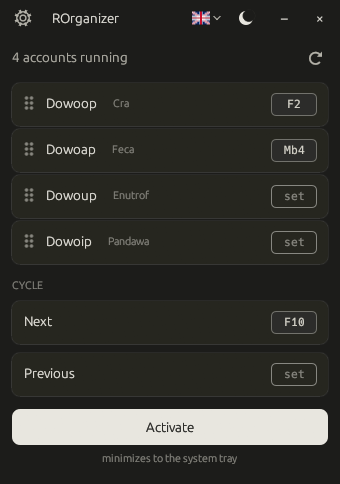
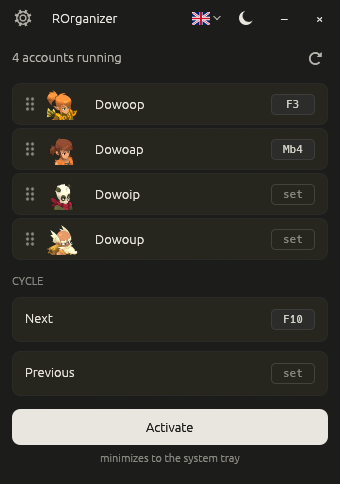
Phase 17 — icônes de classe + bump 1.1.0
- 19 visages Dofus embedded comme PNG (resources/classes/)
- class_icon mappe la classe extraite (regex titre) vers un
  nom de fichier, avec alias FR/EN/ES (encyclopédie Ankama)
- icône 32×32 avant le pseudo, libellé texte retiré ;
  frame inner_margin 11→4 pour garder ROW=46
- drag handle alloué pleine hauteur pour rester centré
- mention copyright Ankama ajoutée dans les README et la
  modale About (+ key i18n about.ankama_credit)
- screenshots MAJ pour refléter le nouveau rendu

diff --git a/src/class_icon.rs b/src/class_icon.rs
@@ -1,0 +1,100 @@
+//! Map a Dofus class string (extracted from the window title via the
+//! configured regex) to one of the 19 PNG filenames embedded in
+//! `resources/classes/`. Covers the FR / EN / ES names returned by the
+//! official Ankama encyclopedia, since the title language follows the
+//! Dofus client locale, not the OS or ROrganizer UI language.
+
+pub fn class_filename(raw: &str) -> Option<&'static str> {
+    match normalize(raw).as_str() {
+        "feca" => Some("feca"),
+        "osamodas" => Some("osamodas"),
+        "enutrof" | "anutrof" => Some("enutrof"),
+        "sram" => Some("sram"),
+        "xelor" => Some("xelor"),
+        "ecaflip" | "zurcarak" => Some("ecaflip"),
+        "eniripsa" | "aniripsa" => Some("eniripsa"),
+        "iop" | "yopuka" => Some("iop"),
+        "cra" | "ocra" => Some("cra"),
+        "sadida" => Some("sadida"),
+        "sacrieur" | "sacrier" | "sacrogrito" => Some("sacrieur"),
+        "pandawa" => Some("pandawa"),
+        "roublard" | "rogue" | "tymadore" => Some("roublard"),
+        "zobal" | "masqueraider" => Some("zobal"),
+        "steamer" | "foggernaut" => Some("steamer"),
+        "eliotrope" | "selotrope" => Some("eliotrope"),
+        "huppermage" | "hipermagos" => Some("huppermage"),
+        "ouginak" | "uginak" => Some("ouginak"),
+        "forgelance" | "forjalanza" => Some("forgelance"),
+        _ => None,
+    }
+}
+
+fn normalize(s: &str) -> String {
+    s.chars()
+        .map(strip_accent)
+        .flat_map(|c| c.to_lowercase())
+        .filter(|c| c.is_ascii_alphabetic())
+        .collect()
+}
+
+fn strip_accent(c: char) -> char {
+    match c {
+        'à' | 'á' | 'â' | 'ã' | 'ä' | 'å' | 'À' | 'Á' | 'Â' | 'Ã' | 'Ä' | 'Å' => 'a',
+        'è' | 'é' | 'ê' | 'ë' | 'È' | 'É' | 'Ê' | 'Ë' => 'e',
+        'ì' | 'í' | 'î' | 'ï' | 'Ì' | 'Í' | 'Î' | 'Ï' => 'i',
+        'ò' | 'ó' | 'ô' | 'õ' | 'ö' | 'Ò' | 'Ó' | 'Ô' | 'Õ' | 'Ö' => 'o',
+        'ù' | 'ú' | 'û' | 'ü' | 'Ù' | 'Ú' | 'Û' | 'Ü' => 'u',
+        'ý' | 'ÿ' | 'Ý' => 'y',
+        'ñ' | 'Ñ' => 'n',
+        'ç' | 'Ç' => 'c',
+        other => other,
+    }
+}
+
+#[cfg(test)]
+mod tests {
+    use super::*;
+
+    #[test]
+    fn fr_accented_names() {
+        assert_eq!(class_filename("Crâ"), Some("cra"));
+        assert_eq!(class_filename("Féca"), Some("feca"));
+        assert_eq!(class_filename("Xélor"), Some("xelor"));
+    }
+
+    #[test]
+    fn en_aliases() {
+        assert_eq!(class_filename("Rogue"), Some("roublard"));
+        assert_eq!(class_filename("Foggernaut"), Some("steamer"));
+        assert_eq!(class_filename("Masqueraider"), Some("zobal"));
+        assert_eq!(class_filename("Sacrier"), Some("sacrieur"));
+    }
+
+    #[test]
+    fn es_aliases() {
+        assert_eq!(class_filename("Yopuka"), Some("iop"));
+        assert_eq!(class_filename("Sacrogrito"), Some("sacrieur"));
+        assert_eq!(class_filename("Tymadore"), Some("roublard"));
+        assert_eq!(class_filename("Forjalanza"), Some("forgelance"));
+        assert_eq!(class_filename("Aniripsa"), Some("eniripsa"));
+        assert_eq!(class_filename("Anutrof"), Some("enutrof"));
+        assert_eq!(class_filename("Hipermagos"), Some("huppermage"));
+        assert_eq!(class_filename("Selotrope"), Some("eliotrope"));
+        assert_eq!(class_filename("Uginak"), Some("ouginak"));
+        assert_eq!(class_filename("Zurcarak"), Some("ecaflip"));
+        assert_eq!(class_filename("Ocra"), Some("cra"));
+    }
+
+    #[test]
+    fn case_and_whitespace_insensitive() {
+        assert_eq!(class_filename("FECA"), Some("feca"));
+        assert_eq!(class_filename(" iop "), Some("iop"));
+        assert_eq!(class_filename("Sram!"), Some("sram"));
+    }
+
+    #[test]
+    fn unknown_class() {
+        assert_eq!(class_filename("InconnuClass"), None);
+        assert_eq!(class_filename(""), None);
+    }
+}

diff --git a/src/app.rs b/src/app.rs
@@ -65,6 +65,32 @@ fn decode_about_icon(ctx: &egui::Context) -> Option<egui::TextureHandle> {
     Some(ctx.load_texture("about-icon", color_image, egui::TextureOptions::LINEAR))
 }
 
+/// Decode every class avatar PNG once at boot. 64×64 is enough to stay
+/// crisp on HiDPI when the row renders the icon at 20×20 logical px.
+/// Failed decodes are silently skipped — the affected row falls back to
+/// "no icon" rather than a placeholder, matching the project's fail-soft
+/// stance. Key is the canonical lowercase filename stem (cf. `assets`).
+fn decode_class_icons(
+    ctx: &egui::Context,
+) -> HashMap<&'static str, egui::TextureHandle> {
+    let mut map = HashMap::with_capacity(crate::assets::CLASS_PNGS.len());
+    for (name, bytes) in crate::assets::CLASS_PNGS {
+        let Ok(img) = image::load_from_memory(bytes) else { continue };
+        let resized = img.resize_exact(64, 64, image::imageops::FilterType::Lanczos3);
+        let rgba = resized.to_rgba8();
+        let (w, h) = (rgba.width() as usize, rgba.height() as usize);
+        let color_image =
+            egui::ColorImage::from_rgba_unmultiplied([w, h], rgba.as_raw());
+        let handle = ctx.load_texture(
+            format!("class-{name}"),
+            color_image,
+            egui::TextureOptions::LINEAR,
+        );
+        map.insert(*name, handle);
+    }
+    map
+}
+
 pub struct App {
     theme: Theme,
     lang: Lang,
@@ -99,6 +125,10 @@ pub struct App {
     /// (only `svg`), so `Image::from_bytes("bytes://*.png", ...)` would
     /// render the red error placeholder. None on decode failure.
     about_icon: Option<egui::TextureHandle>,
+    /// One texture per Dofus class, keyed by canonical filename stem
+    /// (`"iop"`, `"feca"`, …). Decoded once at boot from `assets::CLASS_PNGS`.
+    /// Looked up via `class_icon::class_filename(raw_class)`.
+    class_icons: HashMap<&'static str, egui::TextureHandle>,
 }
 
 #[derive(Default, PartialEq, Eq)]
@@ -120,6 +150,7 @@ impl App {
 
         egui_extras::install_image_loaders(&cc.egui_ctx);
         let about_icon = decode_about_icon(&cc.egui_ctx);
+        let class_icons = decode_class_icons(&cc.egui_ctx);
 
         // Load persisted config if any (silently falls back to defaults).
         let config_path = config::default_path();
@@ -193,7 +224,12 @@ impl App {
             title_regex,
             show_about: false,
             about_icon,
+            class_icons,
         }
+    }
+
+    pub fn class_icon(&self, name: &str) -> Option<&egui::TextureHandle> {
+        self.class_icons.get(name)
     }
 
     pub fn theme(&self) -> Theme {
@@ -512,7 +548,7 @@ impl App {
         const TITLE_BAR: f32 = 36.0;
         const PANEL_PAD: f32 = 24.0; // 12 top + 12 bottom
         const SUMMARY: f32 = 22.0; // count label + refresh button row
-        const ROW: f32 = 46.0; // frame ~40 + 6 inter-row gap
+        const ROW: f32 = 46.0; // frame ~40 (32 icon + 8 v-pad) + 6 inter-row gap
         const CYCLE_HEAD: f32 = 32.0; // separator + label + spacing
         const CYCLE_BLOCK: f32 = 2.0 * ROW + 4.0; // 2 rows + small slack
         const SUMMARY_GAP: f32 = 10.0;

diff --git a/src/ui/main_view.rs b/src/ui/main_view.rs
@@ -239,7 +239,7 @@ fn draw_account_row(
         .fill(bg)
         .corner_radius(CornerRadius::same(8))
         .stroke(Stroke::new(1.0, border))
-        .inner_margin(Margin::symmetric(12, 11))
+        .inner_margin(Margin::symmetric(12, 4))
         .show(ui, |ui| {
             // 24 inner_margin + 2 stroke = egui::Frame outer overhead.
             ui.set_min_width(avail_width - 26.0);
@@ -248,20 +248,22 @@ fn draw_account_row(
                     draw_drag_handle(ui, theme);
                 });
                 ui.add_space(4.0);
+                if let Some(class) = w.class.as_deref()
+                    && let Some(name) = crate::class_icon::class_filename(class)
+                    && let Some(tex) = app.class_icon(name)
+                {
+                    ui.add(
+                        egui::Image::new(tex)
+                            .fit_to_exact_size(egui::vec2(32.0, 32.0)),
+                    );
+                    ui.add_space(8.0);
+                }
                 ui.label(
                     egui::RichText::new(&w.slot_key)
                         .size(13.0)
                         .strong()
                         .color(theme::text_primary(theme)),
                 );
-                if let Some(class) = &w.class {
-                    ui.add_space(8.0);
-                    ui.label(
-                        egui::RichText::new(class)
-                            .size(11.0)
-                            .color(theme::text_tertiary(theme)),
-                    );
-                }
                 ui.with_layout(
                     egui::Layout::right_to_left(egui::Align::Center),
                     |ui| {
@@ -382,13 +384,17 @@ fn draw_cycle_row(
 }
 
 fn draw_drag_handle(ui: &mut egui::Ui, theme: Theme) {
-    // 2 columns × 3 rows of small dots — reliable across fonts.
-    let size = Vec2::new(10.0, 16.0);
+    // Allocate the full row height (matches the 32 px class icon) so the
+    // dots stay vertically centered. Without this, horizontal layout uses
+    // the first-allocated element's height as baseline and the handle
+    // ends up flush with the top of the row.
+    let size = Vec2::new(10.0, 32.0);
     let (rect, _) = ui.allocate_exact_size(size, Sense::hover());
     let color = theme::text_tertiary(theme);
     let cx0 = rect.left() + 2.5;
     let cx1 = rect.left() + 7.5;
-    let cys = [rect.top() + 3.0, rect.center().y, rect.bottom() - 3.0];
+    let cy_mid = rect.center().y;
+    let cys = [cy_mid - 5.0, cy_mid, cy_mid + 5.0];
     let r = 1.4;
     let painter = ui.painter();
     for cy in cys {

diff --git a/src/assets.rs b/src/assets.rs
@@ -7,3 +7,28 @@ pub const GITHUB_SVG: &[u8] = include_bytes!("../resources/icons/github.svg");
 pub const FLAG_FR_SVG: &[u8] = include_bytes!("../resources/flags/fr.svg");
 pub const FLAG_EN_SVG: &[u8] = include_bytes!("../resources/flags/en.svg");
 pub const FLAG_ES_SVG: &[u8] = include_bytes!("../resources/flags/es.svg");
+
+/// Class avatar PNGs keyed by canonical filename stem (lowercase, no
+/// accent). The key is the `class_filename()` output and is reused as
+/// the egui texture cache key. Order is alphabetical for diff stability.
+pub const CLASS_PNGS: &[(&str, &[u8])] = &[
+    ("cra", include_bytes!("../resources/classes/cra.png")),
+    ("ecaflip", include_bytes!("../resources/classes/ecaflip.png")),
+    ("eliotrope", include_bytes!("../resources/classes/eliotrope.png")),
+    ("eniripsa", include_bytes!("../resources/classes/eniripsa.png")),
+    ("enutrof", include_bytes!("../resources/classes/enutrof.png")),
+    ("feca", include_bytes!("../resources/classes/feca.png")),
+    ("forgelance", include_bytes!("../resources/classes/forgelance.png")),
+    ("huppermage", include_bytes!("../resources/classes/huppermage.png")),
+    ("iop", include_bytes!("../resources/classes/iop.png")),
+    ("osamodas", include_bytes!("../resources/classes/osamodas.png")),
+    ("ouginak", include_bytes!("../resources/classes/ouginak.png")),
+    ("pandawa", include_bytes!("../resources/classes/pandawa.png")),
+    ("roublard", include_bytes!("../resources/classes/roublard.png")),
+    ("sacrieur", include_bytes!("../resources/classes/sacrieur.png")),
+    ("sadida", include_bytes!("../resources/classes/sadida.png")),
+    ("sram", include_bytes!("../resources/classes/sram.png")),
+    ("steamer", include_bytes!("../resources/classes/steamer.png")),
+    ("xelor", include_bytes!("../resources/classes/xelor.png")),
+    ("zobal", include_bytes!("../resources/classes/zobal.png")),
+];

diff --git a/src/ui/about.rs b/src/ui/about.rs
@@ -45,7 +45,7 @@ pub fn draw(ctx: &egui::Context, app: &mut App) {
 
     // Width fits inside the 340-wide viewport with a 10 px breathing room
     // on each side. Height is sized to comfortably hold every section.
-    let card_size = egui::vec2(320.0, 380.0);
+    let card_size = egui::vec2(320.0, 420.0);
     let card_rect = egui::Rect::from_center_size(screen_rect.center(), card_size);
 
     let close_clicked = std::cell::Cell::new(false);
@@ -115,6 +115,12 @@ pub fn draw(ctx: &egui::Context, app: &mut App) {
                                 egui::RichText::new(t!("about.credit"))
                                     .size(11.0)
                                     .color(theme::text_secondary(theme)),
+                            );
+                            ui.add_space(4.0);
+                            ui.label(
+                                egui::RichText::new(t!("about.ankama_credit"))
+                                    .size(10.0)
+                                    .color(theme::text_tertiary(theme)),
                             );
                         });
 

diff --git a/src/main.rs b/src/main.rs
@@ -4,6 +4,7 @@ rust_i18n::i18n!("locales", fallback = "en");
 
 mod app;
 mod assets;
+mod class_icon;
 mod config;
 mod hooks;
 mod i18n;

diff --git a/README.es.md b/README.es.md
@@ -143,6 +143,11 @@ Herramienta de terceros, sin afiliación con Ankama Games ni con el
 juego Dofus. Úsala bajo tu propia responsabilidad y consulta las
 condiciones de uso de Dofus antes de hacerlo.
 
+Algunas ilustraciones mostradas en la aplicación son propiedad de
+Ankama Studio. **Dofus** y las ilustraciones asociadas son marcas de
+Ankama — todos los derechos reservados. Se usan aquí únicamente con
+fines ilustrativos y no comerciales.
+
 ## Licencia
 
 Distribuido bajo licencia dual, a tu elección :

diff --git a/README.md b/README.md
@@ -146,6 +146,11 @@ Outil tiers non affilié à Ankama Games ni au jeu Dofus. À utiliser à
 tes risques et à consulter conformément aux conditions générales
 d'utilisation de Dofus.
 
+Certaines illustrations affichées dans l'application sont la propriété
+d'Ankama Studio. **Dofus** et les visuels associés sont des marques
+d'Ankama — tous droits réservés. Elles sont utilisées ici à des fins
+purement illustratives et non commerciales.
+
 ## Licence
 
 Distribué sous double licence, au choix :

diff --git a/README.en.md b/README.en.md
@@ -140,6 +140,11 @@ Just delete the `.exe`. Your preferences are stored in
 Third-party tool, not affiliated with Ankama Games or the Dofus game.
 Use at your own risk and check the Dofus terms of service before use.
 
+Some illustrations displayed in the application are the property of
+Ankama Studio. **Dofus** and related artwork are trademarks of
+Ankama — all rights reserved. They are used here for illustrative,
+non-commercial purposes only.
+
 ## License
 
 Dual-licensed at your choice:
